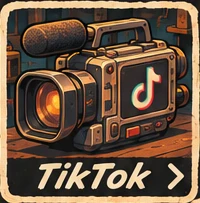
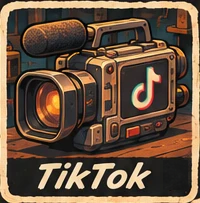
Clean up hub tile arrows and inset navigation badges

Changed region(s): [[0.84, 0.798, 0.93, 0.9458]]

diff --git a/src/styles.css b/src/styles.css
@@ -7466,7 +7466,7 @@ button.link-button { width: 100%; font: inherit; text-align: left; cursor: point
 .assembly-header h1 { margin: 0; line-height: 0; }
 .assembly-header img, .assembly-tile img { display: block; width: 100%; height: auto; }
 .assembly-tiles { display: grid; grid-template-columns: repeat(60, minmax(0, 1fr)); gap: 5px 0; background: #171411; padding: 5px 0; }
-.assembly-tile { display: grid; align-items: stretch; margin: 0 2px; grid-column: span 20; }
+.assembly-tile { display: grid; align-self: start; align-items: start; margin: 0 2px; grid-column: span 20; }
 .assembly-pipboy, .assembly-official { grid-column: span 30; }
 .assembly-fallout { grid-column: span 36; }
 .assembly-radio, .assembly-camera { grid-column: span 12; }
@@ -7502,7 +7502,19 @@ button.assembly-tile { padding: 0; border: 0; background: transparent; cursor: p
 .assembly-explore, .assembly-mark { background: #241c15; color: #ffe2ac; border: 1px solid #cfaa73; border-radius: 4px; }
 .assembly-explore { position: absolute; top: 4%; right: 3%; display: inline-flex; align-items: center; min-height: 44px; padding: 0 14px; font-weight: 700; text-decoration: none; }
 .assembly-explore:focus-visible { outline: 3px solid white; }
-.assembly-mark { position: absolute; right: 3%; bottom: 5%; display: grid; place-items: center; width: clamp(20px, 4vw, 44px); height: clamp(20px, 4vw, 44px); font: bold clamp(14px, 2.4vw, 24px)/1 system-ui; pointer-events: none; }
+.assembly-mark {
+  position: absolute;
+  right: 5%;
+  bottom: 9%;
+  height: 17%;
+  max-height: 38px;
+  aspect-ratio: 1;
+  box-sizing: border-box;
+  display: grid;
+  place-items: center;
+  font: bold clamp(10px, 1.8vw, 21px)/1 system-ui;
+  pointer-events: none;
+}
 .workshop-app { display: grid; grid-template-columns: 46px minmax(0, 1fr); gap: 8px 12px; align-items: center; padding: 12px 0; }
 .workshop-app img { width: 46px; height: 46px; object-fit: contain; border-radius: 5px; background: #14120f; }
 .workshop-app p { margin: 3px 0 0; color: #edd2ad; font-size: .85rem; line-height: 1.35; }

diff --git a/src/App.jsx b/src/App.jsx
@@ -464,7 +464,7 @@ function HubPage() {
                 target={href.startsWith('https://') ? '_blank' : undefined}
                 rel={href.startsWith('https://') ? 'noopener noreferrer' : undefined}>
                 <img src={assetPath('assembly/' + art + '.webp')} alt={label} />
-                <span className="assembly-mark" aria-hidden="true">{href.startsWith('https://') ? '↗' : '→'}</span>
+                {art !== 'radio' && art !== 'camera' && <span className="assembly-mark" aria-hidden="true">{href.startsWith('https://') ? '↗' : '→'}</span>}
               </a>
             ))}
           </nav>
